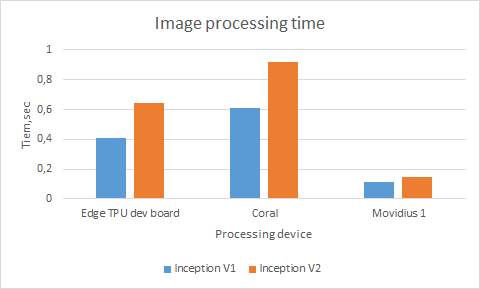
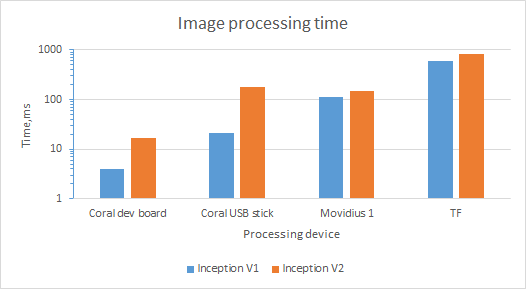
Images and text is updated according to collected data

diff --git a/coral/README.md b/coral/README.md
@@ -139,11 +139,11 @@ Raspberry Pi 3+ was selected as platform for Coral and Movidius evaluation. Taki
 
 ## Performance measuring
 
-For chip performance measurement, we used the above mentioned  TensorFlow and TensorFlowLite implementations of Inception V1, Inception V2, Inception V3, Inception V4, Mobilenet V1 0.25 128, Mobilenet V1 1.0 224, Mobilenet V2 1.0 224 networks. Test images were loaded to the stick for classification and measuring of image processing speed. 20 test images were used for experiment with 50 cycles run for data collection. Results are provided in Table 2.
+For chip performance measurement, we used the above mentioned  TensorFlow and TensorFlow Lite implementations of Inception V1, Inception V2, Inception V3, Inception V4, Mobilenet V1 0.25 128, Mobilenet V1 1.0 224, Mobilenet V2 1.0 224 networks. Test images were loaded to the stick for classification and measuring of image processing speed. 20 test images were used for experiment with 50 cycles run for data collection. Results are provided in Table 2.
 
 Note that attempts to use Inception V3, Inception V4 and Mobilenet V2 1.0 224 on Movidius 1 resulted in unexpected errors, nevertheless that models were converted without any problems. Situation with Movidius 2 was more strange - none network was even possible to load into the chip, some assertion was involved during the loading process. Information about such Movidius 2 behavior was posted to [Intel's forum](https://software.intel.com/en-us/forums/computer-vision/topic/807826) and we are waiting for answer.
 
-We also made the second experiment for EdgeTPU on Dev board to avoid USB2 bias on the device speed (Raspberry Pi 3 B+ has only USB2, when Coral was designed for USB3). Performance increased, but only in 1.4 - 2 times. Details are also shown in table 2 below, corresponding visualization in Figure 1 and 2.
+We also made the second experiment for EdgeTPU on Dev board to avoid USB2 bias on the device speed (Raspberry Pi 3 B+ has only USB2, when Coral was designed for USB3). Performance increased in 4-10 times. Details are also shown in table 2 below, corresponding visualization in Figure 1 and 2.
 
  
 
@@ -216,16 +216,16 @@ We also made the second experiment for EdgeTPU on Dev board to avoid USB2 bias o
 
 ![](img/image-processing-time-coral-edge-tpu-1.png) ![](img/image-processing-time-coral-edge-tpu-2.png)
 
-*Figure 1. Image processing time comparison for Edge TPU on Dev board and Coral.*
+*Figure 1. Image processing time comparison for Coral dev board and Coral USB stick.*
 
 ![](img/image-processing-time-coral-edge-tpu-movidius-1.png) ![](img/image-processing-time-coral-edge-tpu-movidius-1.png)
 
-*Figure 2.  Image processing time comparison for EdgeTPU, Corel and Movidius 1.*
+*Figure 2.  Image processing time comparison for Coral dev board, Coral USB stick, Movidius 1 and TensorFlow software implementation on CPU .*
 
 ## Power consumption
-We used XTARs USB Detector to measure power consumption during the computations. Measurements were made for Coral and Movidius1 only, becauseit was impossible to measure EdgeTPU consumption  current on Dev board without changes in board design. Results are shown in Table3. We also made computations of energy consumption in terms of Images per Joule (see Figure 3).
+We used XTARs USB Detector to measure power consumption during the computations. Measurements were made for Coral USB skick and Movidius 1 only, because it was impossible to measure Coral current  consumption on Dev board without changes in board design. Results are shown in Table3. We also made computations of energy consumption in terms of Images per Joule (see Figure 3).
 
-*Table 3. Power consumption of Coral and Movidius 1.*
+*Table 3. Power consumption of Coral USB stick and Movidius 1.*
 
 | Device     |  U,B |  I,A |
 | :--------- | ---: | ---: |
@@ -234,16 +234,24 @@ We used XTARs USB Detector to measure power consumption during the computations.
 
 ![](img/energy-consumption-images-per-joule-coral-movidius-1.png) ![](img/energy-consumption-images-per-joule-coral-movidius-2.png)
 
-*Figure 3.   Energy consumption in Images per Joule for Coral and Movidius 1.*
+*Figure 3.   Energy consumption in Images per Joule for Coral USB stick  and Movidius 1.*
+
+## Warnings
+
+Both TensorFlow Lite neural network file and compiled for Coral neural network file have the same extension - .tflite. However, when TensorFlow Lite neural network file is uploaded by mistake instead of compiled for Coral neural network file, we have performance degradation due to code execution on CPU. None error messages are generated. 
+
+A similar situation is when the user tries to upload several network models into Coral simultaneously - all networks are executed on CPU. 
+
+Movidius allows to execute several neural networks simultaneously on a single stick as well as usage of batch data processing.   
 
 ## Conclusions
-According to the measurements results Movidius 1 is 4-6 times faster than Coral on tasks of single image classification.
 
-But energy consumption in terms of images per Joule is very close for both Coral and Movidius 1.
+According to the measurements results Coral USB stick is about 5 times faster than Movidius 1. Coral dev board is 8-28 times faster than Movidius 1 and about 3-10 times faster that Coral USB stick. From the other side, Movidius 1 is 3-6 times faster than TensorFlow network implementation on Raspberry Pi 3+ CPU.
 
-Exceptions was Mobilenet V1 0.25 128 model - Coral allows to process about 200 images per Joule on this network, when Movidius 1 only 35.
+Coral USB stick can process in  2-18 times more images per Joule of used energy than  Movidius 1.
 
-Edge TPU on dev board is 1.4 - 2 times quicker than Coral connected to USB2.
+Still, there are problems with the neural network conversions between TF and Movidius format, but new implementation of OpenVINO (2019 R1) has better networks support. 
 
-Still there are problems with the neural network conversions between TF and Movidius format, but nevertheless, new implementation of OpenVINO (2019 R1) has better networks support. 
+Coral USB stick can process in  2-18 times more images per Joule of used energy than  Movidius 1.
 
+Still, there are problems with the neural network conversions between TensorFlow and Movidius format, but new implementation of OpenVINO (2019 R1) has better networks support. 
